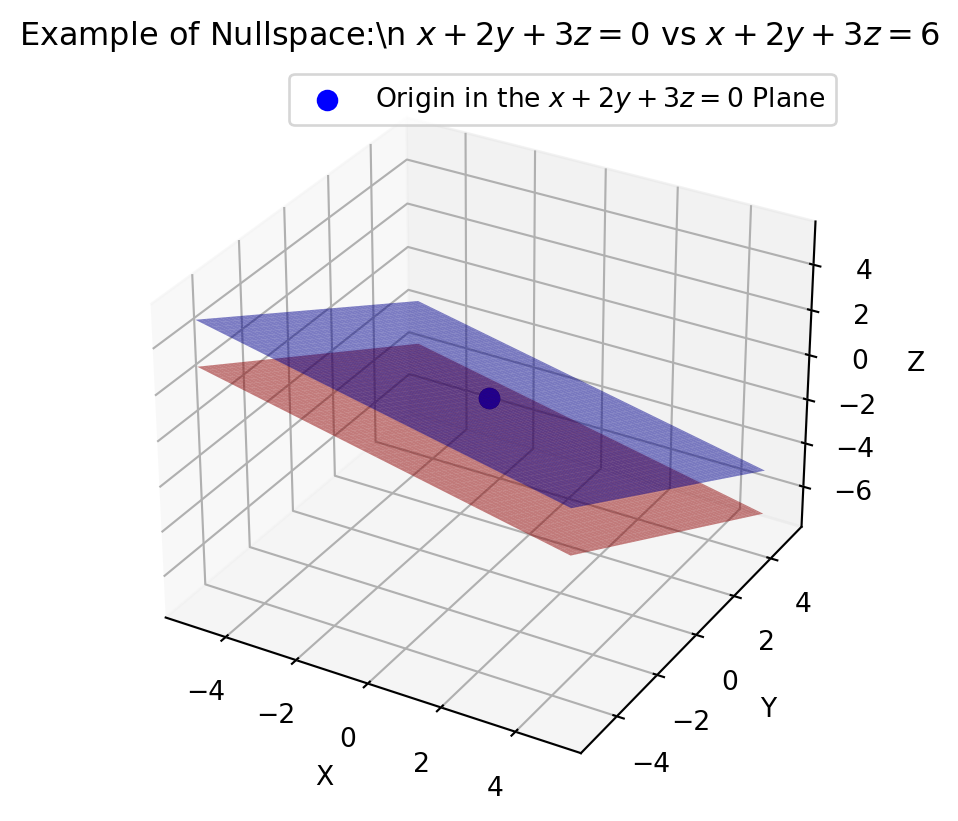
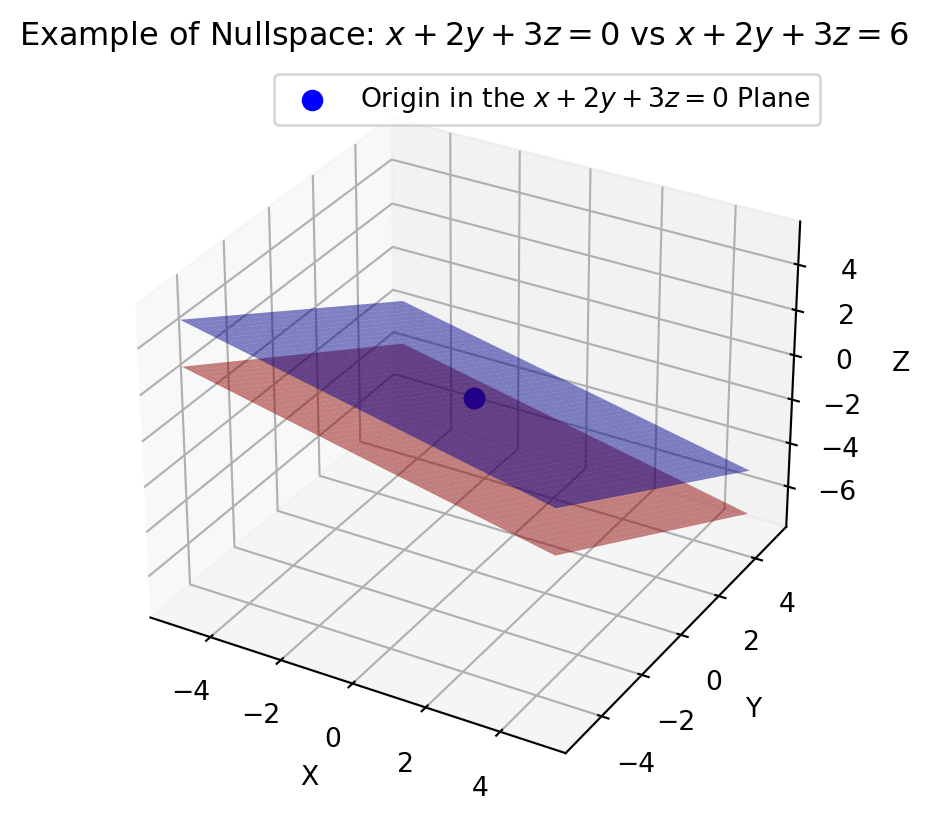
try adding commenting functions

diff --git a/_site/docs/blog/posts/Mathmatics/linear_algebra/05.vector_space.html b/_site/docs/blog/posts/Mathmatics/linear_algebra/05.vector_space.html
@@ -560,6 +560,8 @@ Important
 </section>
 <section id="example-4" class="level3" data-number="1.4.2">
 <h3 data-number="1.4.2" class="anchored" data-anchor-id="example-4"><span class="header-section-number">1.4.2</span> Example</h3>
+<section id="example-1-1" class="level4" data-number="1.4.2.1">
+<h4 data-number="1.4.2.1" class="anchored" data-anchor-id="example-1-1"><span class="header-section-number">1.4.2.1</span> Example 1</h4>
 <p><span class="math display">\[
 \begin{align*}
 \mathbf{A} = \begin{bmatrix} 1 &amp; 2 &amp; 3 \end{bmatrix} \quad \mathbf{Ax=0} \\
@@ -615,7 +617,7 @@ Important
 <span id="cb2-44"><a href="#cb2-44" aria-hidden="true" tabindex="-1"></a>ax.set_xlabel(<span class="st">'X'</span>)</span>
 <span id="cb2-45"><a href="#cb2-45" aria-hidden="true" tabindex="-1"></a>ax.set_ylabel(<span class="st">'Y'</span>)</span>
 <span id="cb2-46"><a href="#cb2-46" aria-hidden="true" tabindex="-1"></a>ax.set_zlabel(<span class="st">'Z'</span>)</span>
-<span id="cb2-47"><a href="#cb2-47" aria-hidden="true" tabindex="-1"></a>ax.set_title(<span class="vs">r'Example of Nullspace:\n $x+2y+3z=0$ vs $x+2y+3z=6$'</span>)</span>
+<span id="cb2-47"><a href="#cb2-47" aria-hidden="true" tabindex="-1"></a>ax.set_title(<span class="vs">r'Example of Nullspace: $x+2y+3z=0$ vs $x+2y+3z=6$'</span>)</span>
 <span id="cb2-48"><a href="#cb2-48" aria-hidden="true" tabindex="-1"></a></span>
 <span id="cb2-49"><a href="#cb2-49" aria-hidden="true" tabindex="-1"></a><span class="co"># Add a legend</span></span>
 <span id="cb2-50"><a href="#cb2-50" aria-hidden="true" tabindex="-1"></a>ax.legend()</span>
@@ -624,9 +626,36 @@ Important
 <span id="cb2-53"><a href="#cb2-53" aria-hidden="true" tabindex="-1"></a>plt.show()</span></code><button title="Copy to Clipboard" class="code-copy-button"><i class="bi"></i></button></pre></div>
 </details>
 <div class="cell-output cell-output-display">
-<p><img src="05.vector_space_files/figure-html/cell-3-output-1.png" width="479" height="411"></p>
+<p><img src="05.vector_space_files/figure-html/cell-3-output-1.png" width="464" height="411"></p>
 </div>
 </div>
+</section>
+<section id="example-2-1" class="level4" data-number="1.4.2.2">
+<h4 data-number="1.4.2.2" class="anchored" data-anchor-id="example-2-1"><span class="header-section-number">1.4.2.2</span> Example 2</h4>
+<p><span class="math display">\[
+\begin{align*}
+\mathbf{A} = \begin{bmatrix} 1 &amp; 2 \\ 3 &amp; 6 \\ 2 &amp; 4 \end{bmatrix} \quad
+\text{null}(\mathbf{A}) = \left\{ \begin{bmatrix} -2t \\ t \end{bmatrix} \mid t \in \mathbb{R} \right\}
+\end{align*}
+\]</span></p>
+<p>The null space of a matrix <span class="math inline">\(\mathbf{A}\)</span>, denoted as <span class="math inline">\(\text{null}(\mathbf{A})\)</span>, is the set of all vectors <span class="math inline">\(\mathbf{x}\)</span> that satisfy the equation <span class="math inline">\(\mathbf{Ax} = \mathbf{0}\)</span>, where <span class="math inline">\(\mathbf{0}\)</span> is the zero vector.</p>
+<p>For the given matrix <span class="math inline">\(\mathbf{A} = \begin{bmatrix} 1 &amp; 2 \\ 3 &amp; 6 \\ 2 &amp; 4 \end{bmatrix}\)</span>, we can find the null space by solving the equation <span class="math inline">\(\mathbf{Ax} = \mathbf{0}\)</span>.</p>
+<p>Let’s set up the augmented matrix <span class="math inline">\([\mathbf{A} | \mathbf{0}]\)</span> and perform Gaussian elimination to find the row-reduced echelon form (RREF):</p>
+<p><span class="math display">\[
+\left[ \begin{array}{ccc|c}
+1 &amp; 2 &amp; 0 &amp; 0 \\
+3 &amp; 6 &amp; 0 &amp; 0 \\
+2 &amp; 4 &amp; 0 &amp; 0 \\
+\end{array} \right]
+\]</span></p>
+<p>Row 2 is equal to Row 1 multiplied by 3, and Row 3 is equal to Row 1 multiplied by 2. Thus, Row 3 is redundant and can be eliminated.</p>
+<p><span class="math display">\[
+\begin{bmatrix}{ccc|c}
+1 &amp; 2 &amp; 0 &amp; 0 \\
+3 &amp; 6 &amp; 0 &amp; 0 \\
+2 &amp; 4 &amp; 0 &amp; 0 \\
+\end{bmatrix}
+\]</span></p>
 <p><span class="math display">\[
 \begin{align*}
 \mathbf{A} = \begin{bmatrix} 1 &amp; 2 \\ 3 &amp; 6 \\ 2 &amp; 4 \end{bmatrix} \quad
@@ -639,6 +668,7 @@ Important
 \text{null}(\mathbf{B}) = \left\{ \begin{bmatrix} 0 \\ t \\ 0 \end{bmatrix} \mid t \in \mathbb{R} \right\}
 \end{align*}
 \]</span></p>
+</section>
 </section>
 <section id="properties-2" class="level3" data-number="1.4.3">
 <h3 data-number="1.4.3" class="anchored" data-anchor-id="properties-2"><span class="header-section-number">1.4.3</span> Properties</h3>

diff --git a/_site/docs/blog/index.html b/_site/docs/blog/index.html
@@ -247,7 +247,7 @@ ul.task-list li input[type="checkbox"] {
 <a href="../../docs/blog/posts/ML/2023-02-06_naive_bayes/text_classification.html"> </a>
 </div>
 </div>
-<div class="quarto-post image-right" data-index="1" data-categories="All List" data-listing-date-sort="32503647600000" data-listing-file-modified-sort="1680477006009" data-listing-reading-time-sort="2.48">
+<div class="quarto-post image-right" data-index="1" data-categories="All List" data-listing-date-sort="32503647600000" data-listing-file-modified-sort="1681856596825" data-listing-reading-time-sort="2.48">
 <div class="thumbnail">
 <a href="../../docs/blog/posts/content_list.html">
 <div class="thumbnail-image">
@@ -598,7 +598,7 @@ Kwangmin Kim
 </a>
 </div>
 </div>
-<div class="quarto-post image-right" data-index="10" data-categories="Mathematics" data-listing-date-sort="1681052400000" data-listing-file-modified-sort="1681775455980" data-listing-reading-time-sort="32.56">
+<div class="quarto-post image-right" data-index="10" data-categories="Mathematics" data-listing-date-sort="1681052400000" data-listing-file-modified-sort="1681795820893" data-listing-reading-time-sort="33.475">
 <div class="thumbnail">
 <p><a href="../../docs/blog/posts/Mathmatics/linear_algebra/05.vector_space.html"> <img src="../../images/linear_algebra/column_space.PNG" class="thumnail-image"> </a></p>
 </div>

diff --git a/_site/index.html b/_site/index.html
@@ -2,7 +2,7 @@
 <html xmlns="http://www.w3.org/1999/xhtml" lang="en" xml:lang="en"><head>
 
 <meta charset="utf-8">
-<meta name="generator" content="quarto-1.2.313">
+<meta name="generator" content="quarto-1.2.335">
 
 <meta name="viewport" content="width=device-width, initial-scale=1.0, user-scalable=yes">
 
